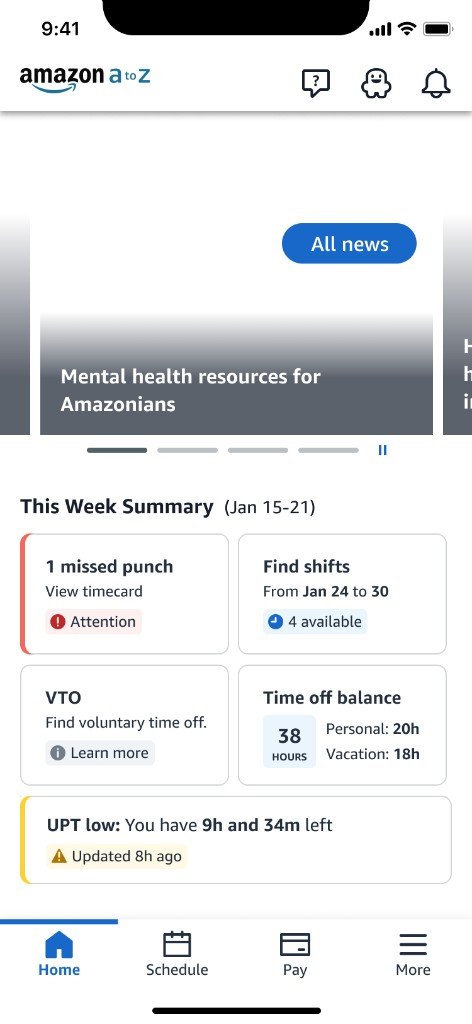
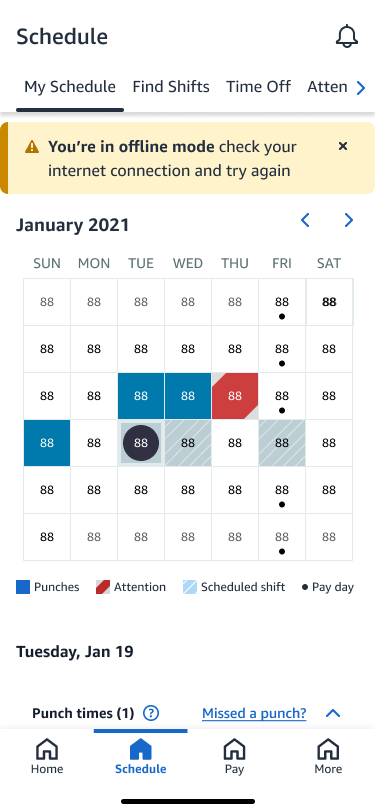
Refresh

diff --git a/projects/amazon/index.html b/projects/amazon/index.html
@@ -27,7 +27,7 @@
         <script src="/eco-nav.js?v=21" defer></script>
         <link rel="stylesheet" href="/subjects/uxdesignProjects/uxdesigncss.css?v=3">
         <link rel="stylesheet" href="/subjects/uxdesignProjects/amazon-case.css?v=46">
-        <link rel="stylesheet" href="/subjects/uxdesignProjects/eco-case.css?v=140">
+        <link rel="stylesheet" href="/subjects/uxdesignProjects/eco-case.css?v=145">
         <link rel="stylesheet" href="/components/work-marquee.css?v=2">
         <script src="/components/work-marquee.js"></script>
     </head>
@@ -95,7 +95,7 @@
             </div>
 
             <h1 class="cs-title">Enterprise Help Experience — Workforce Solutions Transformative Tech</h1>
-            <p class="cs-lede">Utilized existing employee inquiry data to improve Transfer’s help destination and enable associates to complete a successful transfer.</p>
+            <p class="cs-lede">Utilized existing employee inquiry data to improve Transfer’s help destination enabling associates to complete a successful transfer.</p>
 
             <dl class="cs-meta">
                 <div>
@@ -170,6 +170,11 @@
                     </figure>
                 </div>
                 -->
+                <aside class="cs-survey" aria-label="Long story short">
+                    <p class="cs-survey__kicker">Long story short</p>
+                    <p class="cs-survey__question">I led the vision for a new way for associates to get assistance within a transfer application process without the need for HR or managorial intervention.</p>
+                    <p class="cs-survey__note">Assessing criticality based on hundreds of A to Z app inquiries. This project was handed as an intern concept and was not shipped to production.</p>
+                </aside>
             </section>
 
             <section class="cs-block" aria-labelledby="process-heading">
@@ -488,11 +493,16 @@
                         <h3 class="cs-proto__label" id="offline-cache-heading">Cached Data</h3>
                         <div class="cs-proto__shots">
                             <figure class="cs-proto__shot">
-                                <img src="/subjects/uxImages/Amazon/offline-proto-3.png" alt="Amazon A to Z home with cached This Week Summary cards while offline">
+                                <img src="/subjects/uxImages/Amazon/offline-proto-3.png?v=2" alt="Schedule calendar in offline mode with an offline banner, cached January punches, and punch times">
                             </figure>
                         </div>
                     </section>
                 </div>
+                <aside class="cs-survey" aria-label="Long story short">
+                    <p class="cs-survey__kicker">Long story short</p>
+                    <p class="cs-survey__question">I redesigned the Amazon A to Z home page for network disconnection. Ensuring that accurate information is displayed when the app is offline.</p>
+                    <p class="cs-survey__note">Instead of showing a cached schedule that might be wrong, I designed states based on available and unavailable data to reduce inaccurate information.</p>
+                </aside>
             </section>
 
             <section class="cs-block" aria-labelledby="offline-assign-heading">
@@ -619,7 +629,7 @@
                         </figure>
                     </div>
                 </div>
-                <p>I chose the both pattern based on use case. The app demands Wi-Fi before it presents the information. An internal enterprise tool is not a map you can keep in a download. Associates open A to Z for records that change in the moment. A time card, a shift, a pay figure, or a message is only useful if it is the current one from the server.</p>
+                <p>The app demands Wi-Fi before it presents the information. An internal enterprise tool is not a map you can keep in a download. Associates open A to Z for records that change in the moment. A time card, a shift, a pay figure, or a message is only useful if it is the current one from the server.</p>
                 <p>Enterprise tools lean on Wi-Fi because the source of truth is upstream. Caching yesterday’s schedule or last week’s pay would look like a working app and still be wrong. That is more dangerous than an empty screen. Workday and Google Maps already use a version of this restraint. They do not disclose the information that belongs to a live fetch until a connection can retrieve it for that moment. Maps will not invent live traffic without a network. Workday will not invent a workforce record the server has not returned.</p>
                 <p>That pattern belongs on Amazon’s A to Z app. The associate should know the app is disconnected. They should not be asked to act on rows that failed to fetch. Demanding Wi-Fi before presenting the information keeps the offline mode honest about what the enterprise tool can actually promise.</p>
             </section>

diff --git a/subjects/uxdesignProjects/eco-case.css b/subjects/uxdesignProjects/eco-case.css
@@ -1176,7 +1176,7 @@ body.cs-amazon.eco-case .cs-proto-notes {
 }
 
 body.cs-amazon.eco-case .cs-proto-notes__title {
-    margin: 0 0 16px;
+    margin: 12px 0 36px;
     font-family: var(--font-interdisplay);
     font-size: var(--text-heading-sm);
     font-weight: 500;
@@ -2293,6 +2293,10 @@ body.cs-amazon.eco-case .cs-proto__label {
     font-weight: 500;
     line-height: 1.3;
     color: var(--color-vault-ink);
+}
+
+body.cs-amazon.eco-case .cs-proto--offline .cs-proto__label {
+    font-size: 18px;
 }
 
 body.cs-amazon.eco-case .cs-proto__shots {
